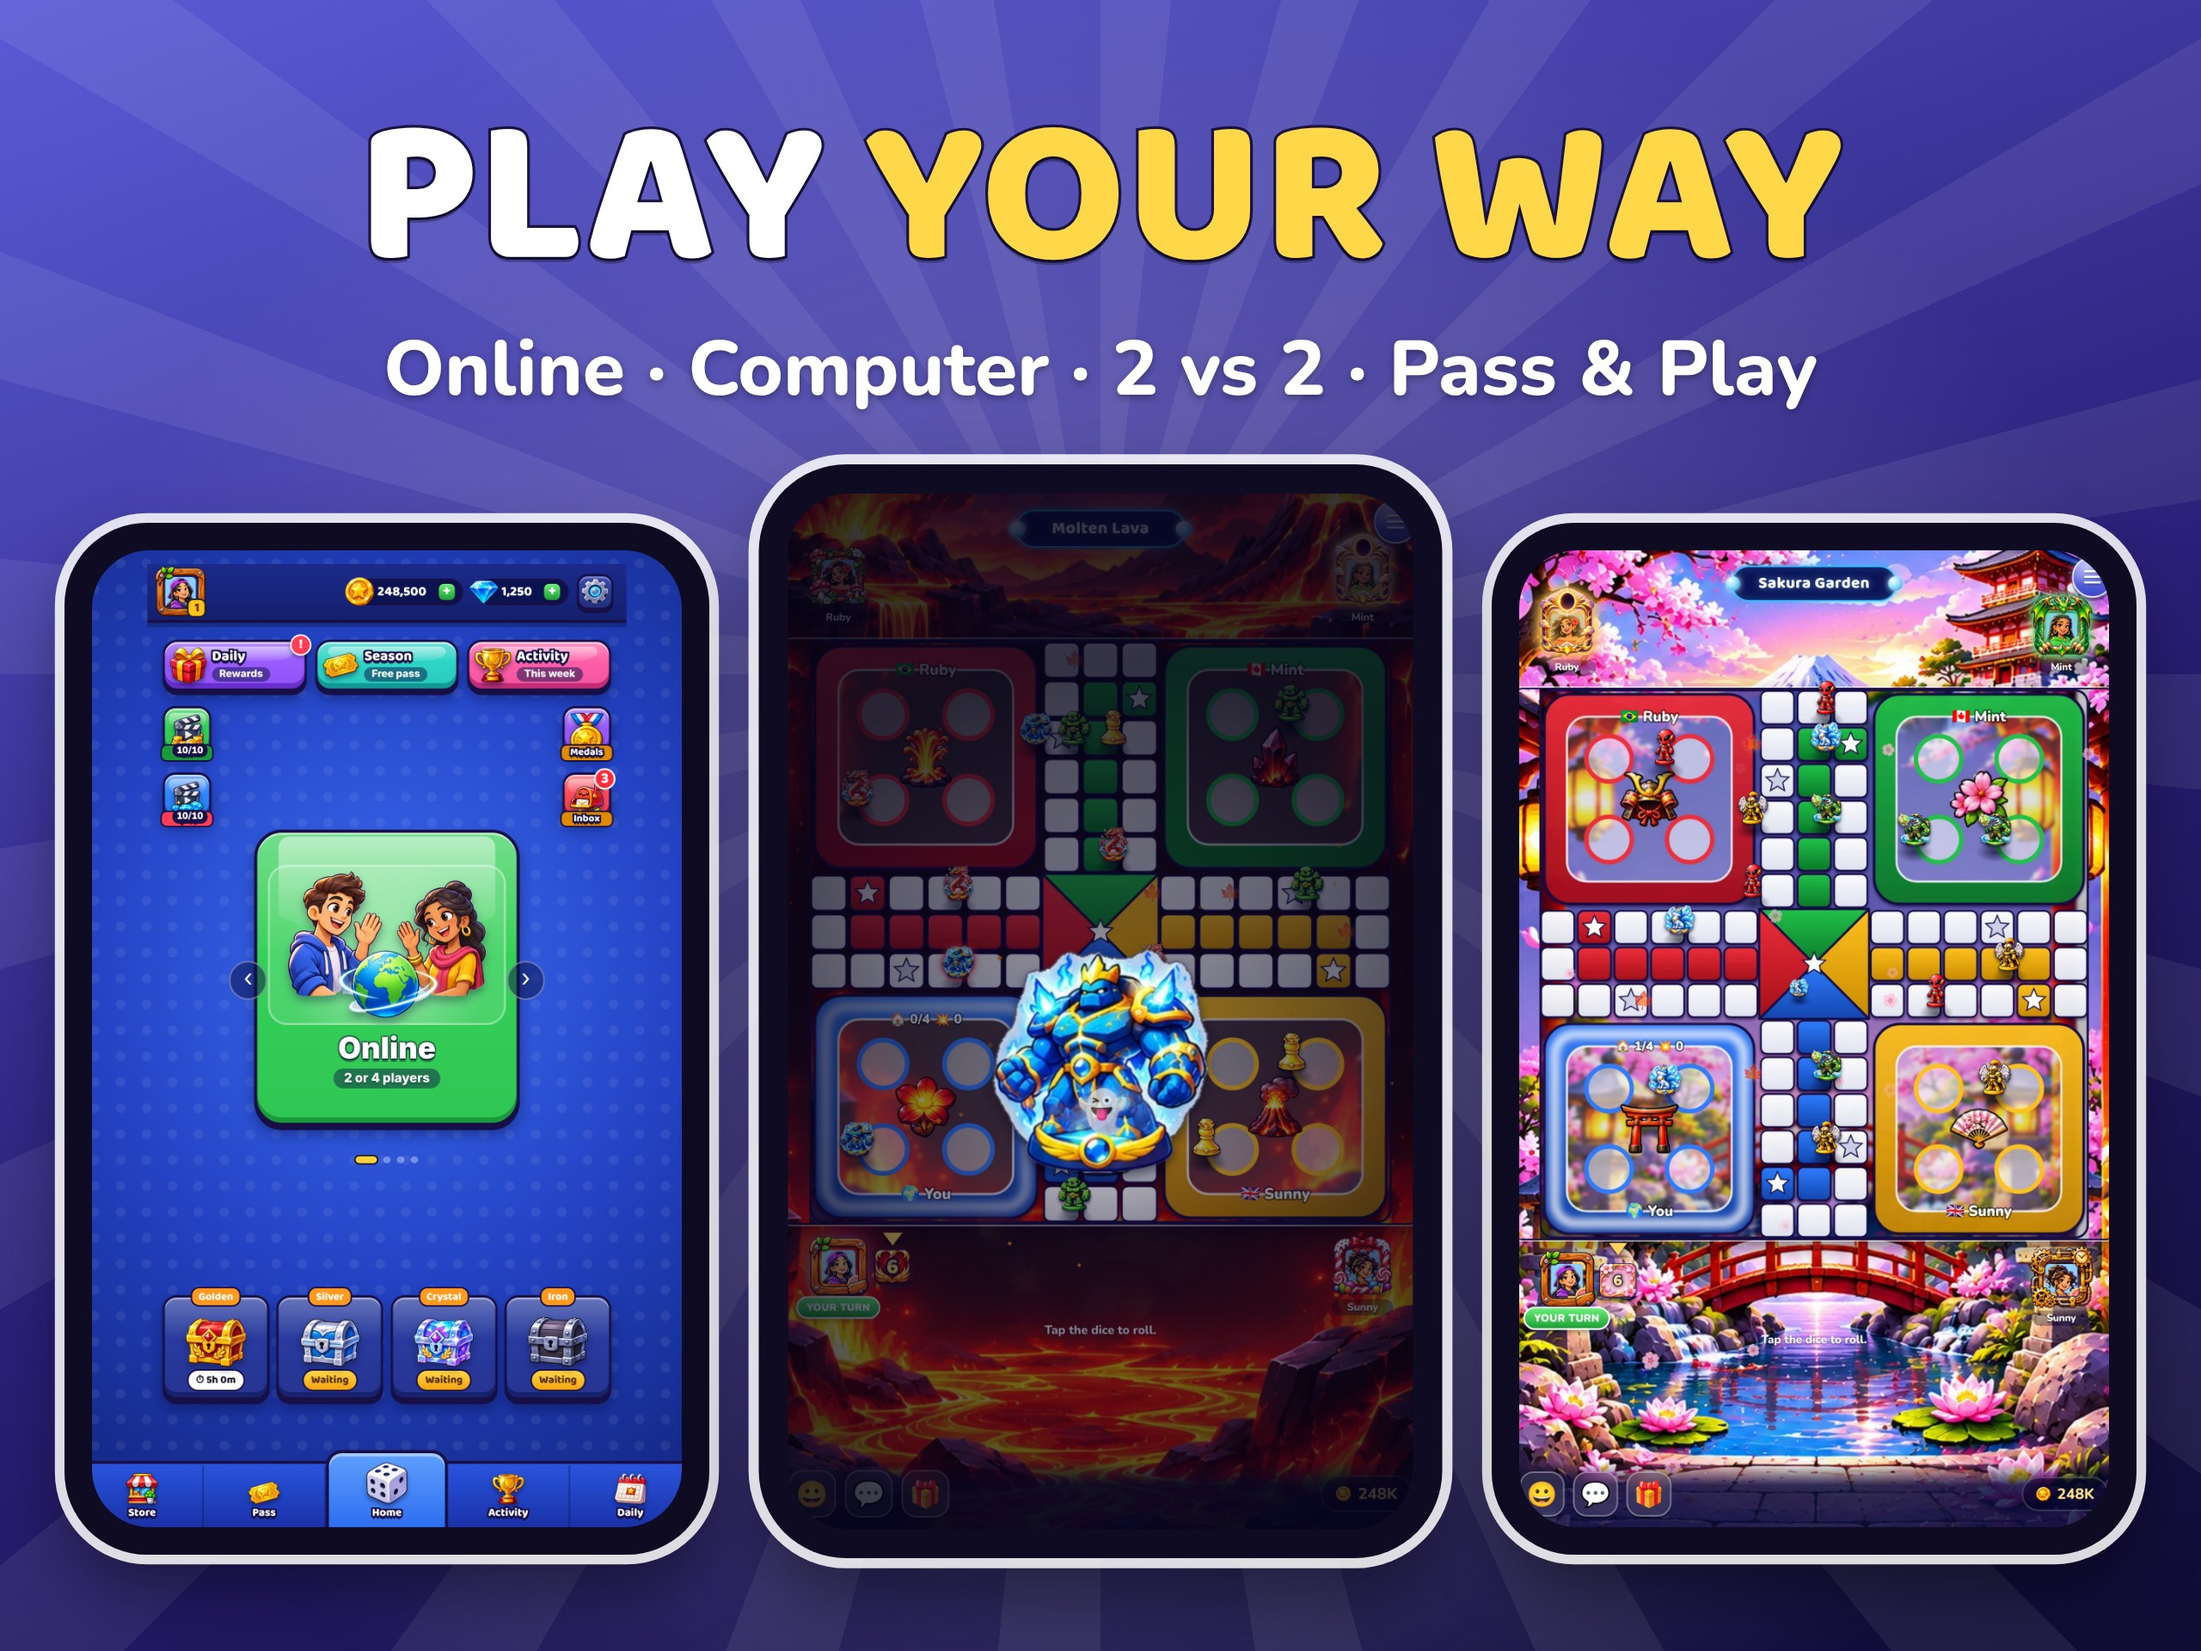
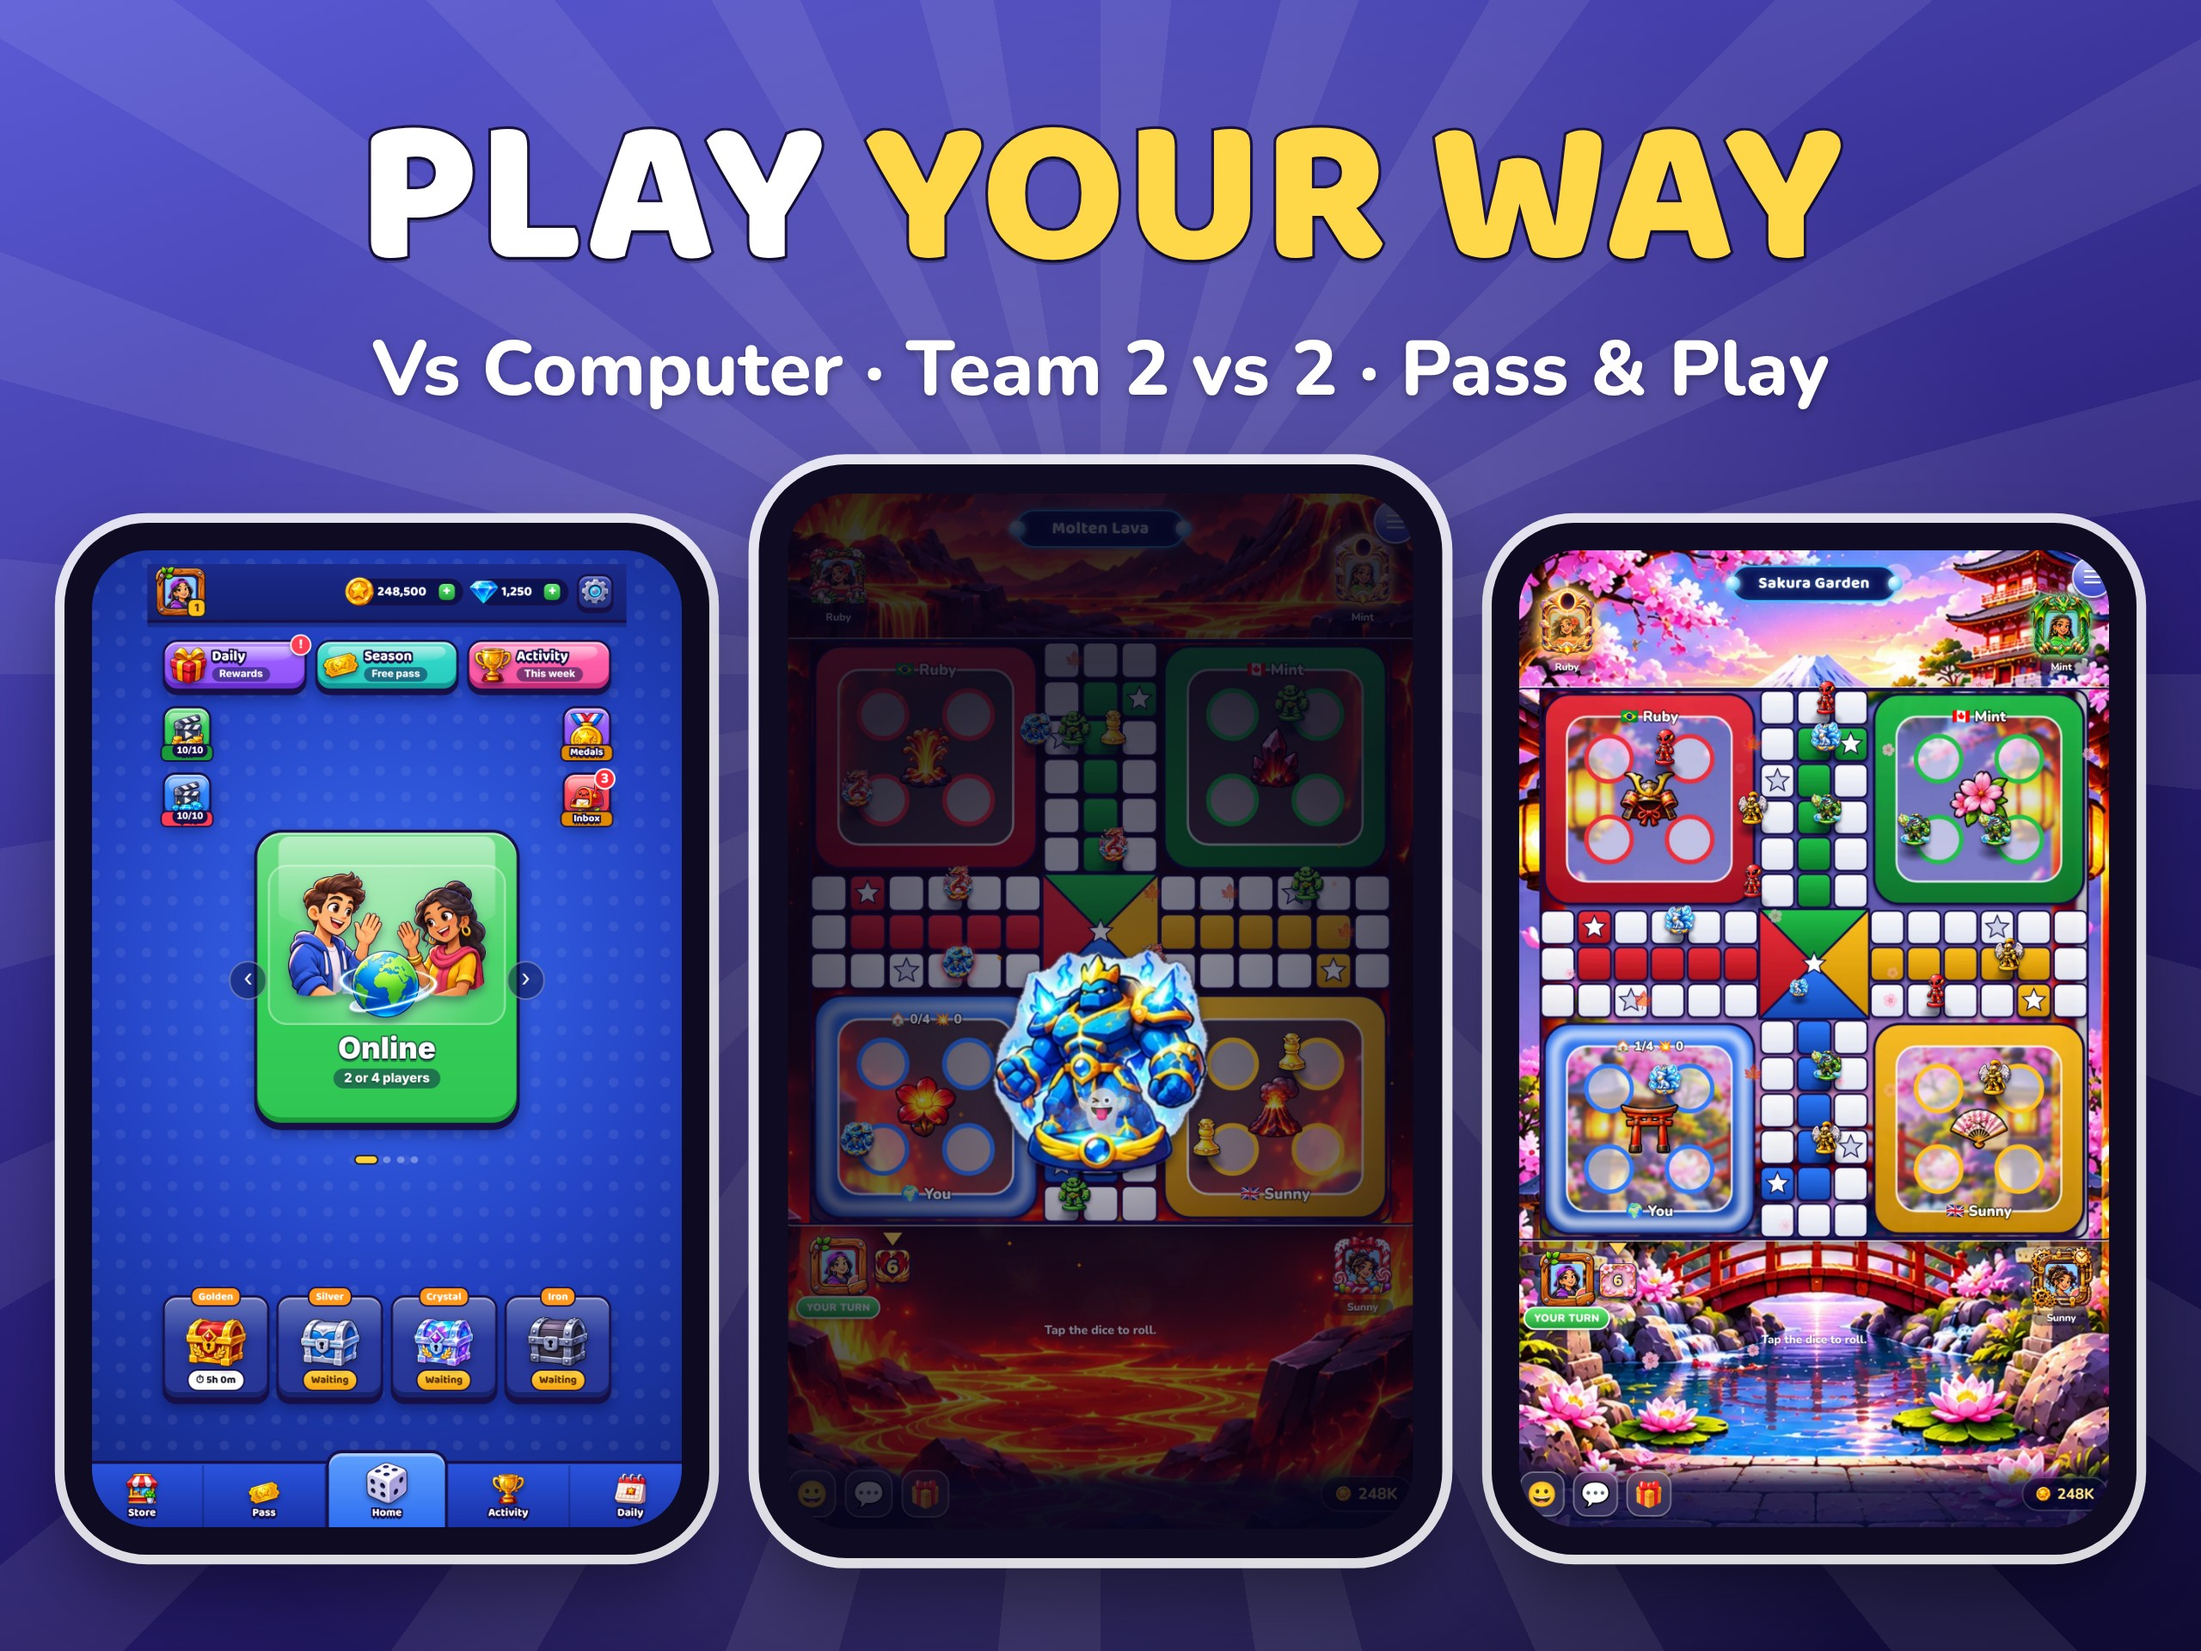
Ludora 1.9 store: 4:3 screenshot lists only modes that are live
Claude-Session: https://claude.ai/code/session_0196TF67ACf4DrGk3bwDQLY6

Changed region(s): [[0.1562, 0.1875, 0.8438, 0.25]]

diff --git a/ludora-dice/tools/compose_wide.js b/ludora-dice/tools/compose_wide.js
@@ -16,7 +16,7 @@ h2{position:absolute;left:0;right:0;top:${230*k}px;text-align:center;font-family
 <body><div class="glow"></div><div class="rays"></div><h1>${h1}</h1><h2>${h2}</h2><div class="row">${shots.map((s,i)=>`<div class="dev${shots.length===3&&i===1?' big':''}"><img src="raw_tablet/${s}.png"></div>`).join('')}</div>`;}
 const S=[
  ['square-1x1',2160,2160,'lava','ROLL. RACE. <em>WIN!</em>','Classic ludo on stunning boards',['g_lava','g_dragon'],1600],
- ['landscape-4x3',2560,1920,'night','PLAY <em>YOUR WAY</em>','Online · Computer · 2 vs 2 · Pass &amp; Play',['home','g_finish','g_sakura'],1200],
+ ['landscape-4x3',2560,1920,'night','PLAY <em>YOUR WAY</em>','Vs Computer · Team 2 vs 2 · Pass &amp; Play',['home','g_finish','g_sakura'],1200],
 ];
 (async()=>{const b=await chromium.launch();fs.mkdirSync('out_wide',{recursive:true});
 for(const [n,W,H,bg,a,c,sh,dh] of S){const p=await b.newPage({viewport:{width:W,height:H}});fs.writeFileSync('_w.html',page(W,H,bg,a,c,sh,dh));
